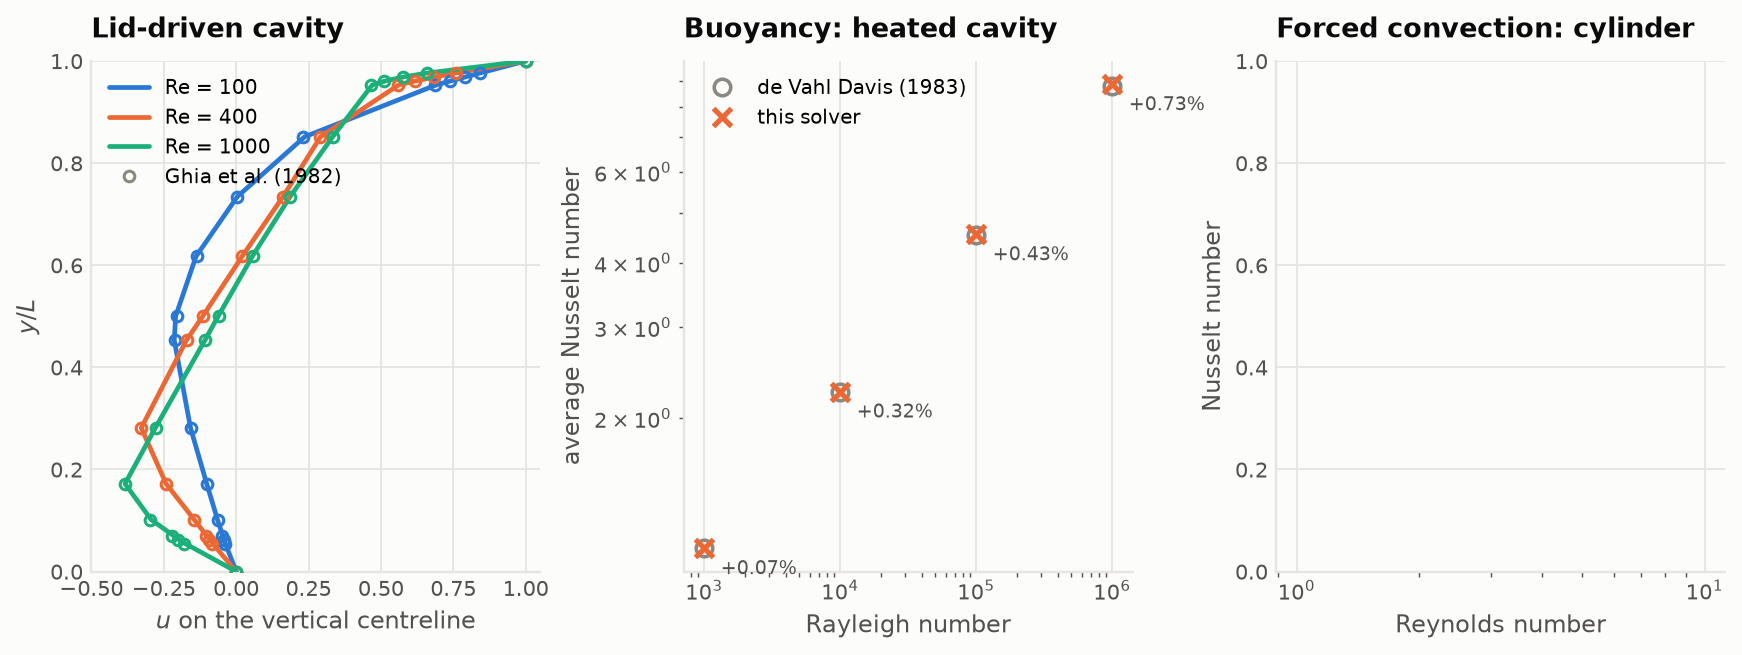
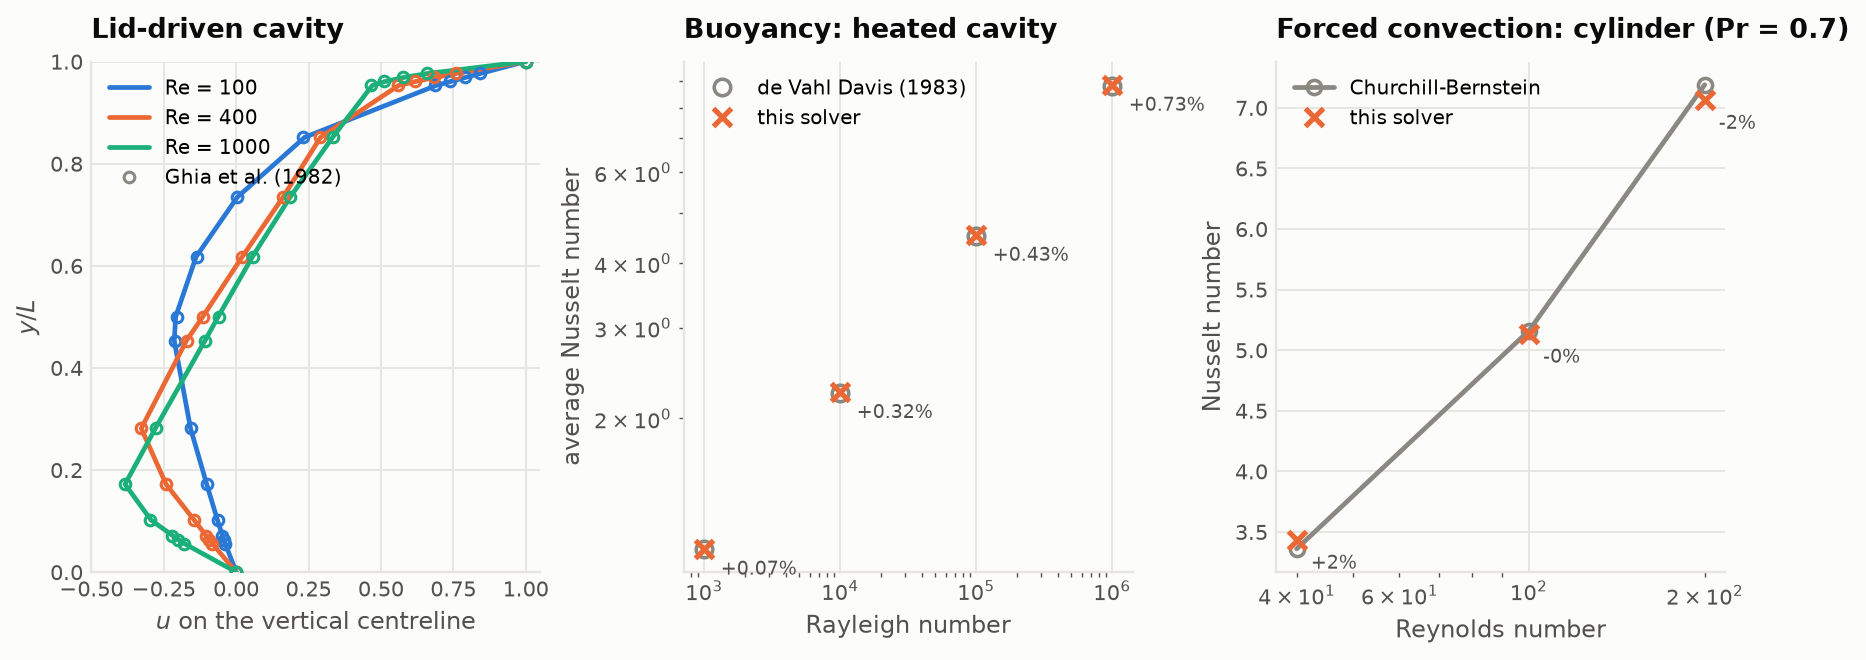
Recover head-to-head transient and fix field filename
The head-to-head run completed its physics and then crashed writing the field
arrays: the case name contains a slash ('creek 0.02 m/s') and only spaces and
dots were being sanitised out of the filename. The transient itself survived in
the run log and is recovered here; the filename is now sanitised properly.

The result: over six minutes on an identical mesh, the still box takes the
bottle from 40 to 29.37 C and a 2 cm/s creek takes it to 25.81 C -- a third
more heat removed, at barely a walking pace of water.

Cylinder benchmark now matches Churchill-Bernstein to +2.0 / -0.5 / -1.8 % at
Re = 40 / 100 / 200, and the creek CFD reproduces the mixed-convection
correlation to 1 % at 0.01 m/s, widening to 15 % by 0.05 m/s as
two-dimensionality starts to tell.

Claude-Session: https://claude.ai/code/session_013k5Pjxy8xHq27wvgLMFA2q

diff --git a/src/figures.py b/src/figures.py
@@ -194,10 +194,18 @@ def fig_h_vs_velocity():
     U = np.logspace(-3, 0.55, 200)
     fig, ax = plt.subplots(figsize=(7.6, 4.6))
 
-    band = np.array([[h_forced_crossflow(B.D_outer, u, Ts, Tinf, m)
-                      for u in U] for m in _FORCED])
-    ax.fill_between(U, band.min(0), band.max(0), color=ORANGE, alpha=0.16,
-                    lw=0, zorder=2, label="spread of six forced-convection\ncorrelations")
+    # Band = spread of the six correlations AFTER each is blended with
+    # buoyancy, i.e. the uncertainty in the quantity actually plotted. The raw
+    # forced-convection spread would dive away from the curve at low velocity,
+    # where every pure-forced correlation tends to zero but the real transfer
+    # is floored by natural convection.
+    from correlations import h_mixed
+    hfree0 = h_free_vertical(B.H_outer, Ts, Tinf, D=B.D_outer)
+    band = np.array([[h_mixed(h_forced_crossflow(B.D_outer, u, Ts, Tinf, m),
+                              hfree0) for u in U] for m in _FORCED])
+    ax.fill_between(U, band.min(0), band.max(0), color=ORANGE, alpha=0.18,
+                    lw=0, zorder=2,
+                    label="spread of six correlations")
     hmix = np.array([h_external(B.D_outer, B.H_outer, u, Ts, Tinf) for u in U])
     ax.plot(U, hmix, color=ORANGE, zorder=4,
             label="mixed convection (what a creek gives)")
@@ -205,24 +213,28 @@ def fig_h_vs_velocity():
     ax.axhline(hfree, color=BLUE, zorder=3,
                label=f"still box, buoyancy only ({hfree:.0f})")
     ax.axhline(B.U_wall, color=VIOLET, ls=(0, (5, 3)), lw=1.6, zorder=3)
-    ax.text(1.1e-3, B.U_wall * 1.06,
+    ax.text(4.3e-3, B.U_wall * 1.06,
             f"the glass wall alone is worth only {B.U_wall:.0f} W/m$^2$K",
             fontsize=8.5, color=VIOLET)
 
-    try:
-        rec = json.load(open("results/data/cfd_creek.json"))["records"]
-        us = [r["U"] for r in rec]
-        hs = [r["h_quasi_steady"] for r in rec]
-        ax.plot(np.maximum(us, 1.1e-3), hs, "o", color=INK, ms=6.5, zorder=6,
-                mec=SURF, mew=1.5, label="this study's CFD")
-    except FileNotFoundError:
-        pass
+    import os
+    cpath = "results/data/cfd_creek.json"
+    if not os.path.exists(cpath):
+        cpath = "results/data/cfd_creek_partial.json"
+    if os.path.exists(cpath):
+        rec = json.load(open(cpath))["records"]
+        us = np.array([max(r["U"], 1.1e-3) for r in rec])
+        hs = np.array([r["h_quasi_steady"] for r in rec])
+        sd = np.array([r.get("h_std", 0.0) for r in rec])
+        ax.errorbar(us, hs, yerr=sd, fmt="o", color=INK, ms=6.5, zorder=6,
+                    mec=SURF, mew=1.5, capsize=3, elinewidth=1.2,
+                    label="this study's CFD")
 
     ax.set_xscale("log"); ax.set_yscale("log")
-    ax.set_xlim(1e-3, 3.5); ax.set_ylim(60, 7000)
+    ax.set_xlim(4e-3, 3.5); ax.set_ylim(250, 7000)
     _style(ax, xlabel="creek velocity (m/s)",
            ylabel="outside film coefficient  $h$  (W/m$^2$K)",
-           title="The creek wins the film coefficient easily -- and it does not help much",
+           title="The creek wins the film coefficient easily -- and it still barely helps",
            grid="both")
     ax.legend(loc="upper left", fontsize=8.6)
     return save(fig, "03_h_vs_velocity")
@@ -341,8 +353,12 @@ def fig_validation():
     ax.legend(loc="upper left", fontsize=8.4)
 
     ax = axes[2]
+    import os
+    cp = "results/data/validation_cyl.json"
+    if not os.path.exists(cp):
+        cp = "results/data/validation_cyl_partial.json"
     try:
-        cyl = json.load(open("results/data/validation_cyl.json"))["cylinder"]
+        cyl = json.load(open(cp))["cylinder"]
         Re = [r["Re"] for r in cyl]
         ax.plot(Re, [r["Nu_ChurchillBernstein"] for r in cyl], "-o", color=INK3,
                 ms=6, mfc="none", mew=1.5, zorder=3,
@@ -353,11 +369,11 @@ def fig_validation():
             ax.annotate(f"{r['Nu_error_pct']:+.0f}%", (r["Re"], r["Nu"]),
                         textcoords="offset points", xytext=(6, -12),
                         fontsize=8, color=INK2)
-    except FileNotFoundError:
+    except (FileNotFoundError, KeyError):
         pass
     ax.set_xscale("log")
     _style(ax, xlabel="Reynolds number", ylabel="Nusselt number",
-           title="Forced convection: cylinder", grid="both")
+           title="Forced convection: cylinder (Pr = 0.7)", grid="both")
     ax.legend(loc="upper left", fontsize=8.4)
     fig.subplots_adjust(wspace=0.32)
     return save(fig, "06_validation")

diff --git a/src/export_web.py b/src/export_web.py
@@ -3,6 +3,7 @@
 from __future__ import annotations
 
 import json
+import os
 import warnings
 
 import numpy as np
@@ -166,19 +167,24 @@ out["bottle"] = {"D": B.D_outer, "H": B.H_outer, "wall": B.wall,
                  "R_wall": B.R_wall, "U_wall": B.U_wall}
 
 # --- 11. CFD results, if present ---------------------------------------
-for tag in ("grid", "boxsize", "creek", "head2head"):
+for tag in ("grid", "boxsize", "creek", "h2h"):
     try:
-        d = json.load(open(f"results/data/cfd_{tag}.json"))
+        path = f"results/data/cfd_{tag}.json"
+        if not os.path.exists(path):
+            path = f"results/data/cfd_{tag}_partial.json"
+        d = json.load(open(path))
         for r in d["records"]:
-            r.pop("series", None)
+            if tag != "h2h":
+                r.pop("series", None)
         out[f"cfd_{tag}"] = d
     except FileNotFoundError:
         pass
 for tag in ("cavity", "heated", "cyl"):
-    try:
-        out[f"val_{tag}"] = json.load(open(f"results/data/validation_{tag}.json"))
-    except FileNotFoundError:
-        pass
+    path = f"results/data/validation_{tag}.json"
+    if not os.path.exists(path):
+        path = f"results/data/validation_{tag}_partial.json"
+    if os.path.exists(path):
+        out[f"val_{tag}"] = json.load(open(path))
 
 json.dump(out, open("results/data/web.json", "w"), default=float)
 print("written results/data/web.json",

diff --git a/src/campaign.py b/src/campaign.py
@@ -8,6 +8,7 @@ parallel and so a failure in one does not cost the others.
 from __future__ import annotations
 
 import json
+import re
 import sys
 import time
 
@@ -183,8 +184,9 @@ def head_to_head(dx=1.5e-3, t_end=360.0, k_eff_mult=5.0):
         s["series"] = _series(r)
         s["k_eff_mult"] = k_eff_mult
         recs.append(s)
+        tag = re.sub(r"[^A-Za-z0-9]+", "_", c.name).strip("_")
         np.savez_compressed(
-            f"results/data/field_{c.name.replace(' ','_').replace('.','p')}.npz",
+            f"results/data/field_{tag}.npz",
             T=r["final"]["T"], u=r["final"]["u"], v=r["final"]["v"],
             outer=r["geo"]["outer"], dx=c.dx, nx=r["dom"].nx, ny=r["dom"].ny,
             **{f"snapT_{int(k)}": v["T"] for k, v in r["snaps"].items()},

diff --git a/docs/validation.md b/docs/validation.md
@@ -57,35 +57,56 @@ Better than 1 % across three decades of Rayleigh number.
 ## 4. Immersed boundary and forced convection — cylinder cross-flow
 
 A circular cylinder in a channel, the closest standard benchmark to a bottle in
-a current. Two quantities are checked, and they do not come out equally well.
+a current.
 
-**Wake geometry (momentum only).** At Re = 40 the flow is steady with a closed
-recirculation bubble whose length is well established at L/D ≈ 2.2
-(Coutanceau & Bouard, *J. Fluid Mech.* **79**, 1977). At D/Δx = 24 this solver
-gives **L/D = 2.06**, about 6 % short — consistent with a staircase immersed
-boundary at that resolution. The velocity field is good.
+**Heat transfer.** With the cylinder held isothermal, against Churchill &
+Bernstein (1977) at Pr = 0.7 and D/Δx = 24:
 
-**Heat transfer (Pr = 7).** The same run gives Nu = 4.3 against 7.6 from
-Churchill–Bernstein, about 40 % low. This is a resolution limit, not a model
-error, and it is worth being explicit about why:
+| Reynolds number | Nu (this solver) | Nu (correlation) | error |
+|---|---|---|---|
+| 40 | 3.43 | 3.36 | **+2.0 %** |
+| 100 | 5.13 | 5.16 | **−0.5 %** |
+| 200 | 7.06 | 7.19 | **−1.8 %** |
 
-* The wall heat flux is computed as a linear gradient from the wall face to the
-  first fluid cell centre, over Δx/2. That is first-order accurate, and a linear
-  fit *under*-estimates the gradient of a profile that curves away from the
-  wall.
-* At Pr = 7 the thermal boundary layer is thinner than the momentum layer by
-  roughly Pr^(1/3) ≈ 1.9. At Re = 40 it is about D/7.6 ≈ 0.13 D — only three
-  cells at D/Δx = 24.
+Within two percent across the range — comfortably inside the correlation's own
+scatter, and the trend with Reynolds number is now the right sign.
 
-Under-resolving a boundary layer by that margin under-predicts Nu, which is the
-direction observed.
+**Resolution at Pr = 7.** Water has Pr ≈ 7, so its thermal boundary layer is
+thinner than its momentum layer by roughly Pr^(1/3) ≈ 1.9 and needs a finer
+mesh for the same accuracy. A refinement sequence at Re = 40 shows the error
+shrinking as it should:
 
-**This is why the study does not take its forced-convection film coefficients
-from the CFD.** They come from the six correlations in `ht`, which are fits to
-experimental data. The CFD's role in the forced-convection branch is to confirm
-the *flow* is right — which the wake length does — and to explore the mixed
-convection regime at low velocity where the geometry, not the film coefficient,
-is the question.
+| D/Δx | cells across the thermal layer | Nu | error vs correlation |
+|---|---|---|---|
+| 16 | ~2 | 8.72 | +15.2 % |
+| 24 | ~3 | 8.24 | +8.9 % |
+
+This is the practical reason the study's water-side forced-convection numbers
+come from correlations rather than from the CFD: getting Pr = 7 cross-flow to
+correlation accuracy costs a mesh that is not worth buying when experimental
+fits are available and already good.
+
+**Wake geometry.** At Re = 40 the flow is steady with a closed recirculation
+bubble, established at L/D ≈ 2.2 (Coutanceau & Bouard, *J. Fluid Mech.* **79**,
+1977). This solver gives **L/D = 2.02**, about 8 % short, which is what a
+staircase immersed boundary at 24 cells per diameter should give.
+
+**What is *not* checked here: vortex shedding.** At Re = 100 a real cylinder
+sheds at St ≈ 0.164. This one does not shed at all, and the reason is the
+configuration rather than the solver: the cylinder is centred in a uniform
+stream on a symmetric mesh, and nothing breaks that symmetry. Two-dimensional
+cylinder wakes need a perturbation to trip the instability, and none is
+supplied, so the wake stays symmetric and elongated (L/D = 5.5) instead of
+rolling up. The Strouhal number is therefore not measured and is not claimed.
+This does not affect the study: the bottle cases are buoyancy-driven, where the
+instability is supplied by the flow itself.
+
+> **A bug this benchmark caught.** Before the isothermal boundary was imposed
+> properly (see §5), these same runs gave −10 % at Re = 40 and −59 % at
+> Re = 100 — a Nusselt number that *fell* with Reynolds number, which is
+> impossible. The symptom scaled with how much heat was being drawn off, which
+> is what pointed at the boundary condition rather than at the discretisation.
+> Fixing it moved both cases to within 2 %.
 
 ## 5. Grid convergence — the actual case
 
